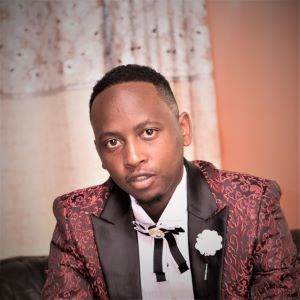
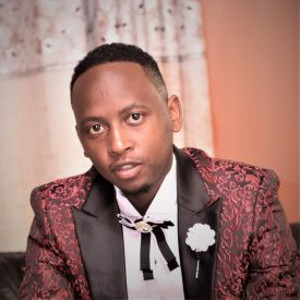
Updates

diff --git a/css/main.css b/css/main.css
@@ -56,6 +56,7 @@
       width: 250px;
       height: 250px;
       background: url("../img/portrait.jpg");
+      background-position: center;
       border-radius: 50%;
       border: solid 3px #00c0ff; }
   .menu .nav-item {
@@ -104,9 +105,10 @@ body {
   font-family: "Segoe UI", Tahoma, Geneva, Verdana, sans-serif;
   line-height: 1.5; }
   body#bg-img {
-    background: url(../img/background.jpeg);
+    background: url(../img/IMG_1217.jpg);
     background-attachment: fixed;
-    background-size: cover; }
+    background-size: cover;
+    background-position: center; }
     body#bg-img:after {
       content: "";
       position: absolute;
@@ -115,7 +117,7 @@ body {
       width: 100%;
       height: 100%;
       z-index: -1;
-      background: rgba(51, 51, 51, 0.9); }
+      background: rgba(51, 51, 51, 0.5); }
 
 h1,
 h2,
@@ -125,7 +127,7 @@ h3 {
   h1.lg-heading,
   h2.lg-heading,
   h3.lg-heading {
-    font-size: 6rem; }
+    font-size: 4rem; }
   h1.sm-heading,
   h2.sm-heading,
   h3.sm-heading {
@@ -146,7 +148,7 @@ header {
   color: #00c0ff; }
 
 main {
-  padding: 4rem;
+  padding: 2rem;
   min-height: calc(100vh - 60px); }
   main .icons {
     margin-top: 1rem; }
@@ -158,7 +160,7 @@ main {
   main#home {
     overflow: hidden; }
     main#home h1 {
-      margin-top: 20vh; }
+      margin-top: 40vh; }
 
 .about-info {
   display: grid;
@@ -197,9 +199,8 @@ main {
       transition: all 0.5s ease-out; }
 
 .container {
-  width: 80%;
-  margin: 50px auto;
-  padding: 20px; }
+  width: 90%;
+  margin: 50px auto; }
 
 .container li {
   position: relative;
@@ -250,7 +251,7 @@ main {
 
 @keyframes python {
   to {
-    width: 60%; } }
+    width: 80%; } }
 
 .container li.javascript:after {
   animation-name: javascript; }
@@ -259,6 +260,55 @@ main {
   to {
     width: 70%; } }
 
+.container li.cpp:after {
+  animation-name: cpp; }
+
+@keyframes cpp {
+  to {
+    width: 50%; } }
+
+.container li.sass:after {
+  animation-name: sass; }
+
+@keyframes sass {
+  to {
+    width: 88%; } }
+
+.container li.django:after {
+  animation-name: django; }
+
+@keyframes django {
+  to {
+    width: 70%; } }
+
+.container li.angular:after {
+  animation-name: angular; }
+
+@keyframes angular {
+  to {
+    width: 70%; } }
+
+.container li.nodejs:after {
+  animation-name: nodejs; }
+
+@keyframes nodejs {
+  to {
+    width: 65%; } }
+
+.container li.bootstrap:after {
+  animation-name: bootstrap; }
+
+@keyframes bootstrap {
+  to {
+    width: 85%; } }
+
+.container li.flask:after {
+  animation-name: flask; }
+
+@keyframes flask {
+  to {
+    width: 78%; } }
+
 .boxes {
   display: flex;
   flex-wrap: wrap;
@@ -266,13 +316,13 @@ main {
   align-items: center;
   margin-top: 1rem; }
   .boxes div {
-    font-size: 2rem;
+    font-size: 1rem;
     border: 3px #fff solid;
-    padding: 1.5rem 2.5rem;
+    padding: 1rem 1.5rem;
     margin-bottom: 3rem;
     transition: all 0.5s ease-out; }
     .boxes div:hover {
-      padding: 0.5rem 1.5rem;
+      padding: 0.5rem 1rem;
       background: #00c0ff;
       color: #000; }
       .boxes div:hover span {
@@ -306,7 +356,7 @@ main {
   .projects {
     grid-template-columns: repeat(3, 1fr); } }
 
-@media screen and (min-widht: 769px) and (max-width: 1170px) {
+@media screen and (min-width: 769px) and (max-width: 1170px) {
   .projects {
     grid-template-columns: repeat(3, 1fr); } }
 
@@ -344,6 +394,8 @@ main {
 
 @media screen and (max-width: 500px) {
   main#home h1 {
-    margin-top: 10vh; }
+    margin-top: 30vh; }
   .projects {
-    grid-template-columns: 1fr; } }
+    grid-template-columns: 1fr; }
+  .lg-heading {
+    font-size: 3rem; } }

diff --git a/work.html b/work.html
@@ -60,44 +60,55 @@
         Check out some of my projects...
       </h2>
       <div class="projects">
-       <div class="item">
-           <a href="#">
-               <img src="img/projects/project1.jpeg" alt="project">
-           </a>
-           <a href="#" class="btn-light">
-               <i class="fas fa-eye"></i> Project
-           </a>
-            <a href="#" class="btn-dark">
-               <i class="fab fa-github"></i> Github
-           </a>
-       </div>
-       <div class="item">
-        <a href="#">
-            <img src="img/projects/project2.jpeg" alt="project">
-        </a>
-        <a href="#" class="btn-light">
-            <i class="fas fa-eye"></i> Project
-        </a>
-         <a href="#" class="btn-dark">
-            <i class="fab fa-github"></i> Github
-        </a>
-    </div>
-    <div class="item">
-        <a href="#">
-            <img src="img/projects/project3.jpeg" alt="project">
-        </a>
-        <a href="#" class="btn-light">
-            <i class="fas fa-eye"></i> Project
-        </a>
-         <a href="#" class="btn-dark">
-            <i class="fab fa-github"></i> Github
-        </a>
-    </div>
+          <!-- <div class="item">
+              <a href="#">
+                  <img src="img/projects/project1.png" alt="project">
+              </a>
+              <a href="https://tonderaichinya.github.io/cleo-portfolio/" class="btn-light" target="_blank">
+                  <i class="fas fa-eye"></i> Portfolio
+              </a>
+                <a href="https://github.com/TonderaiChinya/cleo-portfolio" class="btn-dark">
+                  <i class="fab fa-github"></i> Github
+              </a>
+          </div> -->
+          <div class="item">
+            <a href="#">
+                <img src="img/projects/project2.png" alt="project">
+            </a>
+            <a href="https://comptecheng.co.za/" class="btn-light" target="_blank">
+                <i class="fas fa-eye"></i> Comptech Engineering Website
+            </a>
+            <a href="https://github.com/TonderaiChinya/comptech_website" class="btn-dark">
+                <i class="fab fa-github"></i> Github
+            </a>
+        </div>
+        <div class="item">
+            <a href="#">
+                <img src="img/projects/project3.png" alt="project">
+            </a>
+            <a href="https://kukiescakes.co.za" class="btn-light" target="_blank">
+                <i class="fas fa-eye"></i> Kukies Cakes Website
+            </a>
+            <a href="https://github.com/TonderaiChinya/kukies_cakes_website" class="btn-dark">
+                <i class="fab fa-github"></i> Github
+            </a>
+        </div>
+        <div class="item">
+          <a href="#">
+              <img src="img/projects/project4.png" alt="project">
+          </a>
+          <a href="" class="btn-light" target="_blank">
+              <i class="fas fa-eye"></i> Project
+          </a>
+          <a href="https://github.com/TonderaiChinya/My-Portfolio" class="btn-dark">
+              <i class="fab fa-github"></i> Github
+          </a>
+      </div>
       </div>
     </main>
 
     <footer id="main-footer">
-      Copyright &copy; 2020
+      | Tonderai Chinya | &copy; 2020
     </footer>
 
     <script src="js/main.js"></script>

diff --git a/skills.html b/skills.html
@@ -61,10 +61,17 @@
       </h2>
       <div class="container">
         <ul>
-          <li class="html">HTML</li>
-          <li class="css">CSS</li>
+          <li class="cpp">C++</li>
           <li class="python">PYTHON</li>
           <li class="javascript">JAVASCRIPT</li>
+          <li class="django">DJANGO FRAMEWORK</li>
+          <li class="flask">FLASK FRAMEWORK</li>
+          <li class="bootstrap">BOOTSTRAP FRAMEWORK</li>
+          <li class="angular">ANGULAR FRAMEWORK</li>
+          <li class="nodejs">NODE.JS FRAMEWORK</li>
+          <li class="html">HTML5</li>
+          <li class="css">CSS3</li>
+          <li class="sass">SASS</li>
         </ul>
       </div>
       <!-- <div class="skills">
@@ -96,7 +103,7 @@
     </main>
 
     <footer id="main-footer">
-      Copyright &copy; 2020
+      | Tonderai Chinya | &copy; 2020
     </footer>
 
     <script src="js/main.js"></script>

diff --git a/contact.html b/contact.html
@@ -25,12 +25,12 @@
           <div class="portrait"></div>
         </div>
         <ul class="menu-nav">
-          <li class="nav-item ">
+          <li class="nav-item">
             <a href="index.html" class="nav-link">
               Home
             </a>
           </li>
-          <li class="nav-item ">
+          <li class="nav-item">
             <a href="about.html" class="nav-link">
               About Me
             </a>
@@ -72,7 +72,7 @@
     </main>
 
     <footer id="main-footer">
-      Copyright &copy; 2020
+      | Tonderai Chinya | &copy; 2020
     </footer>
 
     <script src="js/main.js"></script>

diff --git a/about.html b/about.html
@@ -125,7 +125,7 @@
     </main>
 
     <footer id="main-footer">
-      Copyright &copy; 2020
+      | Tonderai Chinya | &copy; 2020
     </footer>
 
     <script src="js/main.js"></script>
